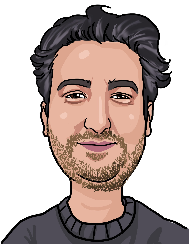
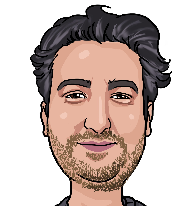
update...

diff --git a/themes/toha/static/assets/css/sections/home.css b/themes/toha/static/assets/css/sections/home.css
@@ -38,10 +38,10 @@
 }
 
 .home img {
-  width: 148px;
-  height: 148px;
-  background-color: #e7e7ef;
-  padding: 5px;
+  width: 164px;
+  height: 164px;
+  /* background-color: #e7e7ef; */
+  /* padding: 5px; */
   margin-bottom: 10px;
 }
 
